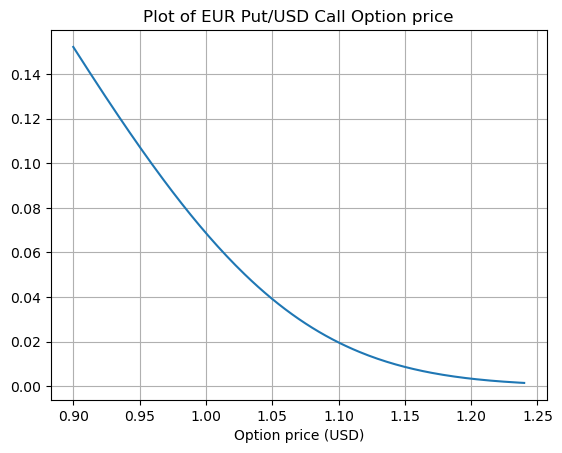
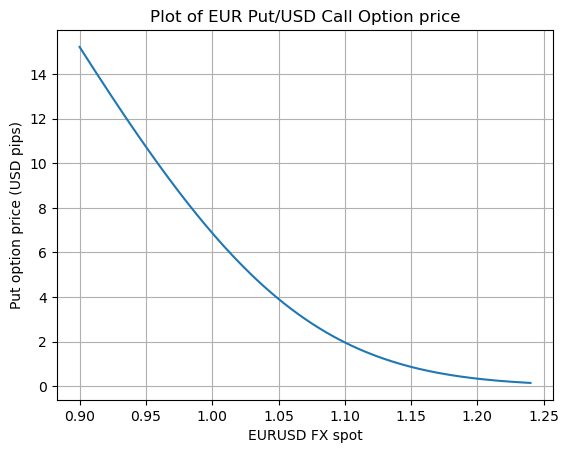
option-greeks

diff --git a/post/2023/11/19/exploring-option-greeks/index.html b/post/2023/11/19/exploring-option-greeks/index.html
@@ -80,8 +80,7 @@
 <p>$$Bl(S_0,K,T,r_{DOM},r_{FOR},\sigma_{\text{imp}}) = V_{\text{market}}$$</p>
 <p>This value $\sigma_{\text{imp}}$ implied from the market price of the option is called the <strong>implied volatility</strong>.</p>
 <p>Thus, although the BS model suffers from flaws, it is mainly used as a quote converter. In the FX options market, option prices are quoted in terms of implied volatilities. The BS formula is used to convert implied vols $\sigma_{\text{imp}}$ to prices and vice versa. The delta hedge to be exchanged between counterparties is calculated according to the BS formula, and this is also true for the Vega hedge of various exotic options. In many cases, the model is also used to run trading books.</p>
-<p>Market conventions used in the FX markets are usually specified in terms of the price and vol attributes of options with various delta characteristics. So, it&rsquo;s nice to explore the intricacies of various types of FX delta and how they are used in the description of market volatility surfaces. The entire concept of the FX volatility smile is based on the parametrization with respect to delta.</p>
-<p>I walk-through the various market conventions used in practice.</p>
+<p>In this note, I explore various delta conventions and derive the greeks. Check out <a href="https://mathfinance.com/wp-content/uploads/2017/06/CPQF_Arbeits20_neu2.pdf">FX Vol smile</a> by Wyestup! The entire concept of the FX volatility smile is based on the parametrization with respect to delta.</p>
 <h2 id="quote-style-conversions">Quote style conversions.</h2>
 <p>In FX markets, options are quoted in one of 4 quote styles - domestic per foreign (d/f), percentage foreign (%f), percentage domestic (%d) and foreign per domestic (f/d).</p>
 <p>The standard Black-Scholes formula is:</p>
@@ -107,6 +106,7 @@ $$</p>
 </span></span><span style="display:flex;"><span>
 </span></span><span style="display:flex;"><span><span style="color:#f92672">import</span> numpy <span style="color:#66d9ef">as</span> np
 </span></span><span style="display:flex;"><span><span style="color:#f92672">from</span> scipy.stats <span style="color:#f92672">import</span> norm
+</span></span><span style="display:flex;"><span><span style="color:#f92672">from</span> enum <span style="color:#f92672">import</span> Enum
 </span></span><span style="display:flex;"><span>
 </span></span><span style="display:flex;"><span><span style="color:#75715e"># An FX option is the right to exchange 1 unit notional of the </span>
 </span></span><span style="display:flex;"><span><span style="color:#75715e"># foreign currency for K units of the domestic currency at time T. </span>
@@ -141,18 +141,42 @@ $$</p>
 </span></span><span style="display:flex;"><span>    pv <span style="color:#f92672">=</span> domesticDF <span style="color:#f92672">*</span> undiscountedPrice <span style="color:#f92672">*</span> CCY1Notional
 </span></span><span style="display:flex;"><span>    <span style="color:#66d9ef">return</span> pv
 </span></span></code></pre></div><h4 id="computing-the-atm-forward-and-the-option-price">Computing the ATM-Forward and the option price</h4>
-<div class="highlight"><pre tabindex="0" style="color:#f8f8f2;background-color:#272822;-moz-tab-size:4;-o-tab-size:4;tab-size:4;"><code class="language-python" data-lang="python"><span style="display:flex;"><span>S_t<span style="color:#f92672">=</span><span style="color:#ae81ff">1.0549</span> ; K<span style="color:#f92672">=</span><span style="color:#ae81ff">1.0710</span> ; t<span style="color:#f92672">=</span><span style="color:#ae81ff">0.0</span> ;T<span style="color:#f92672">=</span><span style="color:#ae81ff">1.0</span> ; r_DOM<span style="color:#f92672">=</span><span style="color:#ae81ff">0.041039868</span> ; r_FOR<span style="color:#f92672">=</span> <span style="color:#ae81ff">0.025860353</span>; sigma<span style="color:#f92672">=</span><span style="color:#ae81ff">0.08971</span> ; CCY1Notional<span style="color:#f92672">=</span><span style="color:#ae81ff">100.00</span>
+<div class="highlight"><pre tabindex="0" style="color:#f8f8f2;background-color:#272822;-moz-tab-size:4;-o-tab-size:4;tab-size:4;"><code class="language-python" data-lang="python"><span style="display:flex;"><span>S_t<span style="color:#f92672">=</span><span style="color:#ae81ff">1.0549</span> ; K<span style="color:#f92672">=</span><span style="color:#ae81ff">1.0710350214586397</span> ; t<span style="color:#f92672">=</span><span style="color:#ae81ff">0.0</span> ;T<span style="color:#f92672">=</span><span style="color:#ae81ff">1.0</span> ; 
+</span></span><span style="display:flex;"><span>r_DOM<span style="color:#f92672">=</span><span style="color:#ae81ff">0.041039868</span> ; r_FOR<span style="color:#f92672">=</span> <span style="color:#ae81ff">0.025860353</span>; sigma<span style="color:#f92672">=</span><span style="color:#ae81ff">0.08971</span> ; CCY1Notional<span style="color:#f92672">=</span><span style="color:#ae81ff">100.00</span>
 </span></span><span style="display:flex;"><span>
-</span></span><span style="display:flex;"><span>ATMForward <span style="color:#f92672">=</span> atTheMoneyForward(S_t,K,t,T,r_DOM,r_FOR,sigma)
+</span></span><span style="display:flex;"><span>forward <span style="color:#f92672">=</span> atTheMoneyForward(S_t,K,t,T,r_DOM,r_FOR,sigma)
 </span></span><span style="display:flex;"><span>
 </span></span><span style="display:flex;"><span>call_price <span style="color:#f92672">=</span> PV(S_t,K,t,T,r_DOM,r_FOR,sigma, CCY1Notional,callPut <span style="color:#f92672">=</span> CallPut<span style="color:#f92672">.</span>CALL_OPTION)
 </span></span><span style="display:flex;"><span>put_price <span style="color:#f92672">=</span> PV(S_t,K,t,T,r_DOM,r_FOR,sigma, CCY1Notional,callPut <span style="color:#f92672">=</span> CallPut<span style="color:#f92672">.</span>PUT_OPTION)
-</span></span></code></pre></div><div class="highlight"><pre tabindex="0" style="color:#f8f8f2;background-color:#272822;-moz-tab-size:4;-o-tab-size:4;tab-size:4;"><code class="language-python" data-lang="python"><span style="display:flex;"><span>print(<span style="color:#e6db74">f</span><span style="color:#e6db74">&#34;At the money forward = </span><span style="color:#e6db74">{</span>ATMForward<span style="color:#e6db74">}</span><span style="color:#e6db74"> USD&#34;</span>)
-</span></span><span style="display:flex;"><span>print(<span style="color:#e6db74">f</span><span style="color:#e6db74">&#34;Call Price = </span><span style="color:#e6db74">{</span>call_price<span style="color:#e6db74">}</span><span style="color:#e6db74"> USD&#34;</span>)
-</span></span><span style="display:flex;"><span>print(<span style="color:#e6db74">f</span><span style="color:#e6db74">&#34;Put Price = </span><span style="color:#e6db74">{</span>put_price<span style="color:#e6db74">}</span><span style="color:#e6db74"> USD&#34;</span>)
-</span></span></code></pre></div><pre><code>At the money forward = 1.0710350214586397 USD
-Call Price = 3.679399488751329 USD
-Put Price = 3.676038161145839 USD
+</span></span></code></pre></div><div class="highlight"><pre tabindex="0" style="color:#f8f8f2;background-color:#272822;-moz-tab-size:4;-o-tab-size:4;tab-size:4;"><code class="language-python" data-lang="python"><span style="display:flex;"><span>print(<span style="color:#e6db74">f</span><span style="color:#e6db74">&#34;Notional = </span><span style="color:#e6db74">{</span>CCY1Notional<span style="color:#e6db74">}</span><span style="color:#e6db74"> EUR&#34;</span>)
+</span></span><span style="display:flex;"><span>
+</span></span><span style="display:flex;"><span>print(<span style="color:#e6db74">f</span><span style="color:#e6db74">&#34;</span><span style="color:#ae81ff">\n</span><span style="color:#e6db74">At the money forward = </span><span style="color:#e6db74">{</span>forward<span style="color:#e6db74">}</span><span style="color:#e6db74"> USD&#34;</span>)
+</span></span><span style="display:flex;"><span>print(<span style="color:#e6db74">f</span><span style="color:#e6db74">&#34;</span><span style="color:#ae81ff">\n</span><span style="color:#e6db74">Call Price = </span><span style="color:#e6db74">{</span>call_price<span style="color:#e6db74">}</span><span style="color:#e6db74"> USD pips&#34;</span>)
+</span></span><span style="display:flex;"><span>print(<span style="color:#e6db74">f</span><span style="color:#e6db74">&#34;Put Price = </span><span style="color:#e6db74">{</span>put_price<span style="color:#e6db74">}</span><span style="color:#e6db74"> USD pips&#34;</span>)
+</span></span><span style="display:flex;"><span>
+</span></span><span style="display:flex;"><span>print(<span style="color:#e6db74">f</span><span style="color:#e6db74">&#34;</span><span style="color:#ae81ff">\n</span><span style="color:#e6db74">Call price = </span><span style="color:#e6db74">{</span>call_price<span style="color:#f92672">/</span>S_t<span style="color:#e6db74">}</span><span style="color:#e6db74"> % EUR&#34;</span>)
+</span></span><span style="display:flex;"><span>print(<span style="color:#e6db74">f</span><span style="color:#e6db74">&#34;Put price = </span><span style="color:#e6db74">{</span>put_price<span style="color:#f92672">/</span>S_t<span style="color:#e6db74">}</span><span style="color:#e6db74"> % EUR&#34;</span>)
+</span></span><span style="display:flex;"><span>
+</span></span><span style="display:flex;"><span>print(<span style="color:#e6db74">f</span><span style="color:#e6db74">&#34;</span><span style="color:#ae81ff">\n</span><span style="color:#e6db74">Call price = </span><span style="color:#e6db74">{</span>call_price<span style="color:#f92672">/</span>K<span style="color:#e6db74">}</span><span style="color:#e6db74"> % USD&#34;</span>)
+</span></span><span style="display:flex;"><span>print(<span style="color:#e6db74">f</span><span style="color:#e6db74">&#34;Put price = </span><span style="color:#e6db74">{</span>put_price<span style="color:#f92672">/</span>K<span style="color:#e6db74">}</span><span style="color:#e6db74"> % USD&#34;</span>)
+</span></span><span style="display:flex;"><span>
+</span></span><span style="display:flex;"><span>print(<span style="color:#e6db74">f</span><span style="color:#e6db74">&#34;</span><span style="color:#ae81ff">\n</span><span style="color:#e6db74">Call price = </span><span style="color:#e6db74">{</span>call_price<span style="color:#f92672">/</span>(S_t <span style="color:#f92672">*</span> K)<span style="color:#e6db74">}</span><span style="color:#e6db74"> EUR pips&#34;</span>)
+</span></span><span style="display:flex;"><span>print(<span style="color:#e6db74">f</span><span style="color:#e6db74">&#34;Put price = </span><span style="color:#e6db74">{</span>put_price<span style="color:#f92672">/</span>(S_t <span style="color:#f92672">*</span> K)<span style="color:#e6db74">}</span><span style="color:#e6db74"> EUR pips&#34;</span>)
+</span></span></code></pre></div><pre><code>Notional = 100.0 EUR
+
+At the money forward = 1.0710350214586397 USD
+
+Call Price = 3.6777787101031754 USD pips
+Put Price = 3.6777787101031754 USD pips
+
+Call price = 3.4863766329540007 % EUR
+Put price = 3.4863766329540007 % EUR
+
+Call price = 3.4338547633058893 % USD
+Put price = 3.4338547633058893 % USD
+
+Call price = 3.2551471829613132 EUR pips
+Put price = 3.2551471829613132 EUR pips
 </code></pre>
 <h4 id="plotting-the-option-price-against-the-ccy1ccy2-spot">Plotting the option price against the CCY1CCY2 spot</h4>
 <div class="highlight"><pre tabindex="0" style="color:#f8f8f2;background-color:#272822;-moz-tab-size:4;-o-tab-size:4;tab-size:4;"><code class="language-python" data-lang="python"><span style="display:flex;"><span><span style="color:#f92672">import</span> matplotlib.pyplot <span style="color:#66d9ef">as</span> plt
@@ -160,12 +184,12 @@ Put Price = 3.676038161145839 USD
 </span></span><span style="display:flex;"><span>plt<span style="color:#f92672">.</span>grid(<span style="color:#66d9ef">True</span>)
 </span></span><span style="display:flex;"><span>plt<span style="color:#f92672">.</span>title(<span style="color:#e6db74">&#39;Plot of EUR Call/USD Put Option price&#39;</span>)
 </span></span><span style="display:flex;"><span>S_t <span style="color:#f92672">=</span> np<span style="color:#f92672">.</span>linspace(<span style="color:#ae81ff">0.90</span>,<span style="color:#ae81ff">1.24</span>,<span style="color:#ae81ff">201</span>)
-</span></span><span style="display:flex;"><span>CCY1Notional <span style="color:#f92672">=</span> <span style="color:#ae81ff">1.00</span>
+</span></span><span style="display:flex;"><span>CCY1Notional <span style="color:#f92672">=</span> <span style="color:#ae81ff">100.00</span>
 </span></span><span style="display:flex;"><span>
 </span></span><span style="display:flex;"><span>call_price_1y <span style="color:#f92672">=</span> PV(S_t,K,t,<span style="color:#ae81ff">1.0</span>,r_DOM,r_FOR,sigma, CCY1Notional,callPut <span style="color:#f92672">=</span> CallPut<span style="color:#f92672">.</span>CALL_OPTION)
 </span></span><span style="display:flex;"><span>
 </span></span><span style="display:flex;"><span>plt<span style="color:#f92672">.</span>xlabel(<span style="color:#e6db74">r</span><span style="color:#e6db74">&#39;EURUSD FX spot&#39;</span>)
-</span></span><span style="display:flex;"><span>plt<span style="color:#f92672">.</span>xlabel(<span style="color:#e6db74">r</span><span style="color:#e6db74">&#39;Option price (USD)&#39;</span>)
+</span></span><span style="display:flex;"><span>plt<span style="color:#f92672">.</span>xlabel(<span style="color:#e6db74">r</span><span style="color:#e6db74">&#39;Call option price (USD pips)&#39;</span>)
 </span></span><span style="display:flex;"><span>plt<span style="color:#f92672">.</span>plot(S_t,call_price_1y)
 </span></span><span style="display:flex;"><span>
 </span></span><span style="display:flex;"><span>plt<span style="color:#f92672">.</span>show()
@@ -179,12 +203,33 @@ Put Price = 3.676038161145839 USD
 </span></span><span style="display:flex;"><span>
 </span></span><span style="display:flex;"><span>
 </span></span><span style="display:flex;"><span>plt<span style="color:#f92672">.</span>xlabel(<span style="color:#e6db74">r</span><span style="color:#e6db74">&#39;EURUSD FX spot&#39;</span>)
-</span></span><span style="display:flex;"><span>plt<span style="color:#f92672">.</span>xlabel(<span style="color:#e6db74">r</span><span style="color:#e6db74">&#39;Option price (USD)&#39;</span>)
+</span></span><span style="display:flex;"><span>plt<span style="color:#f92672">.</span>ylabel(<span style="color:#e6db74">r</span><span style="color:#e6db74">&#39;Put option price (USD pips)&#39;</span>)
 </span></span><span style="display:flex;"><span>
 </span></span><span style="display:flex;"><span>plt<span style="color:#f92672">.</span>plot(S_t,put_price_1y)
 </span></span><span style="display:flex;"><span>
 </span></span><span style="display:flex;"><span>plt<span style="color:#f92672">.</span>show()
 </span></span></code></pre></div><p><img src="./../../../../exploring-option-greeks02.png" alt="png"></p>
+<h2 id="outright-forward-rate">Outright forward rate.</h2>
+<p>Consider a contract with payoff at time $T$, $V_T = R_T - K$. The value of this claim at time zero is:</p>
+<p>$$
+\begin{align*}
+v_0 &amp;= e^{-r_{DOM}T}\mathbb{E}^{\mathbb{Q}^d}[R_T - K]\\
+&amp;= e^{-r_{DOM}T}(R_0 \mathbb{E}^{\mathbb{Q}^d}[e^{(r_{DOM} - r_{FOR} - (\sigma^2/2))T + \sigma \sqrt{T} Z}] - K)\\
+&amp;= e^{-r_{DOM}T}(R_0 e^{(r_{DOM} - r_{FOR})T} - K)\\
+&amp;= R_0 e^{- r_{FOR}T} - K e^{-r_{DOM}T}
+\end{align*}
+$$</p>
+<p>The forward price(strike) $K=F_{0,T}$ is set such that, the value of the contract at time zero is $0$. So,</p>
+<p>$$
+F_{0,T} = K =R_0 e^{(r_{DOM}-r_{FOR})T}
+$$</p>
+<h2 id="put-call-parity">Put call parity.</h2>
+<p>We know that,</p>
+<p>$$(S_T - K)^{+} - (K - S_T)^{+} = (S_T - K)$$</p>
+<p>By the risk-neutral-pricing formula:</p>
+<p>$$\mathbb{E}^{\mathbb{Q}^d}[e^{-r_{DOM}T}(S_T - K)^{+}|\mathcal{F_t}] - \mathbb{E}^{\mathbb{Q}^d}[e^{-r_{DOM}T}(K - S_T)^{+}|\mathcal{F_t}] = \mathbb{E}^{\mathbb{Q}^d}[e^{-r_{DOM}T}(S_T - K)|\mathcal{F_t}]$$</p>
+<p>Thus,</p>
+<p>$$V_{\text{call}}(t,T) - V_{\text{put}}(t,T) = e^{-r_{FOR}T}S_t - e^{-r_{DOM}T} K = F(t,T)$$</p>
 <p>To derive the deltas, we use the following propositions, which are really easy to prove.</p>
 <p><em><strong>Proposition.</strong></em></p>
 <p>$$\frac{\partial d_{+}}{\partial S_0} = \frac{\partial d_{-}}{\partial S_0} = \frac{1}{\sigma S_0 \sqrt{T}}$$</p>
@@ -257,6 +302,8 @@ $$</p>
 &amp;= -\frac{\sqrt{\tau}}{\sigma}
 \end{align*}
 $$</p>
+<h2 id="delta">Delta</h2>
+<p>The delta of an option is the percentage of the foreign notional one must buy when you have a short position in an FX option. For instance, a delta of 0.35 indicates buying $35%$ of the foreign notional to delta hedge the short position. In FX markets, we distinguish between spot delta for a hedge in the spot market and forward delta for a hedge in the outright forward markets.</p>
 <h3 id="pips-spot-delta">Pips Spot Delta</h3>
 <p>The pips spot delta is simply the derivative of the option price with respect to the spot rate - both expressed in ccy2/ccy1 terms.</p>
 <p>$$\Delta_{S;\text{pips}} = \frac{\partial V_{d;\text{pips}}}{\partial S_0}$$</p>
@@ -277,11 +324,13 @@ $$</p>
 </span></span><span style="display:flex;"><span>    omega <span style="color:#f92672">=</span> callPut<span style="color:#f92672">.</span>value
 </span></span><span style="display:flex;"><span>    d_plus <span style="color:#f92672">=</span> dPlus(S_t,K,t,T,r_DOM,r_FOR,sigma)
 </span></span><span style="display:flex;"><span>    <span style="color:#66d9ef">return</span> omega <span style="color:#f92672">*</span> np<span style="color:#f92672">.</span>exp(<span style="color:#f92672">-</span>r_FOR <span style="color:#f92672">*</span> (T<span style="color:#f92672">-</span>t)) <span style="color:#f92672">*</span> norm<span style="color:#f92672">.</span>cdf(omega <span style="color:#f92672">*</span> d_plus) <span style="color:#f92672">*</span> CCY1Notional
-</span></span></code></pre></div><div class="highlight"><pre tabindex="0" style="color:#f8f8f2;background-color:#272822;-moz-tab-size:4;-o-tab-size:4;tab-size:4;"><code class="language-python" data-lang="python"><span style="display:flex;"><span>S_t<span style="color:#f92672">=</span><span style="color:#ae81ff">1.0549</span> ; CCY1Notional<span style="color:#f92672">=</span><span style="color:#ae81ff">100.00</span>
+</span></span></code></pre></div><div class="highlight"><pre tabindex="0" style="color:#f8f8f2;background-color:#272822;-moz-tab-size:4;-o-tab-size:4;tab-size:4;"><code class="language-python" data-lang="python"><span style="display:flex;"><span>S_t<span style="color:#f92672">=</span><span style="color:#ae81ff">1.0549</span> ; CCY1Notional<span style="color:#f92672">=</span><span style="color:#ae81ff">100.0</span>
 </span></span><span style="display:flex;"><span>
 </span></span><span style="display:flex;"><span>pips_spot_delta <span style="color:#f92672">=</span> analyticDelta(S_t,K,t,T,r_DOM,r_FOR,sigma,CCY1Notional, callPut <span style="color:#f92672">=</span> CallPut<span style="color:#f92672">.</span>CALL_OPTION)
-</span></span><span style="display:flex;"><span>print(<span style="color:#e6db74">f</span><span style="color:#e6db74">&#34;Spot Delta = </span><span style="color:#e6db74">{</span>pips_spot_delta<span style="color:#e6db74">}</span><span style="color:#e6db74"> EUR&#34;</span>)
-</span></span></code></pre></div><pre><code>Spot Delta = 50.48090225276146 EUR
+</span></span><span style="display:flex;"><span>print(<span style="color:#e6db74">f</span><span style="color:#e6db74">&#34;Call option Spot Delta = </span><span style="color:#e6db74">{</span>pips_spot_delta<span style="color:#e6db74">}</span><span style="color:#e6db74"> EUR&#34;</span>)
+</span></span><span style="display:flex;"><span>print(<span style="color:#e6db74">f</span><span style="color:#e6db74">&#34;Spot Delta in percentage = </span><span style="color:#e6db74">{</span>pips_spot_delta<span style="color:#f92672">/</span>CCY1Notional <span style="color:#f92672">*</span> <span style="color:#ae81ff">100</span><span style="color:#e6db74">}</span><span style="color:#e6db74"> percent&#34;</span>)
+</span></span></code></pre></div><pre><code>Call option Spot Delta = 50.466746420569166 EUR
+Spot Delta in percentage = 50.466746420569166 percent
 </code></pre>
 <h4 id="plotting-the-analytic-delta-of-call-options">Plotting the Analytic Delta of call options</h4>
 <div class="highlight"><pre tabindex="0" style="color:#f8f8f2;background-color:#272822;-moz-tab-size:4;-o-tab-size:4;tab-size:4;"><code class="language-python" data-lang="python"><span style="display:flex;"><span>plt<span style="color:#f92672">.</span>close()
@@ -298,27 +347,19 @@ $$</p>
 </span></span><span style="display:flex;"><span>plt<span style="color:#f92672">.</span>legend(loc<span style="color:#f92672">=</span><span style="color:#e6db74">&#34;upper left&#34;</span>)
 </span></span><span style="display:flex;"><span>plt<span style="color:#f92672">.</span>show()
 </span></span></code></pre></div><p><img src="./../../../../exploring-option-greeks03.png" alt="png"></p>
-<h3 id="forward-delta">Forward Delta</h3>
-<p>The interpretation of the foward delta is the number of units of FOR of forward contracts a trader needs to buy to delta hedge a short option position. According to Wystup, if we translate this hedge ratio in calculus, it means that we need to compute (for a call)</p>
+<h3 id="pips-forward-delta">Pips Forward Delta</h3>
+<p>The interpretation of the foward delta is the number of units of FOR of forward contracts a trader needs to buy to delta hedge a short option position.</p>
+<p>It is the ratio of the change in the FV of the option with respect to the change in value of the outright forward.</p>
 <p>$$
-\frac{\partial v_{\text{option}}}{\partial v_{\text{forward}}}
-$$</p>
-<p>The value of a forward contract $v_{\text{forward}}$ for an agreed forward exchange rate $K$ is:</p>
-<p>$$
-\begin{align*}
-v_{\text{forward}} &amp;= e^{-r_{DOM}T}\mathbb{E}^{\mathbb{Q}^d}[R_T - K]\\
-&amp;= e^{-r_{DOM}T}(R_0 \mathbb{E}^{\mathbb{Q}^d}[e^{(r_{DOM} - r_{FOR} - (\sigma^2/2))T + \sigma \sqrt{T} Z}] - K)\\
-&amp;= e^{-r_{DOM}T}(R_0 e^{(r_{DOM} - r_{FOR})T} - K)\\
-&amp;= R_0 e^{- r_{FOR}T} - K e^{-r_{DOM}T}
-\end{align*}
+\Delta_{\text{F;pips}}=e^{r_{DOM}T}\frac{\partial v_{\text{option}}}{\partial F_{0,T}}
 $$</p>
 <p>So, the derivative of the value of the forward contract with respect to the spot is:</p>
-<p>$$\frac{\partial v_{\text{forward}}}{\partial R_0} = e^{-r_{FOR}T}$$</p>
+<p>$$\frac{\partial F_{0,T}}{\partial R_0} = e^{(r_{DOM} - r_{FOR})T}$$</p>
 <p>Using the chain rule and the derivative of the inverse function, we obtain the forward delta:</p>
 <p>$$
 \begin{align*}
-\frac{\partial v_{\text{option}}}{\partial v_{\text{forward}}} &amp;= \frac{\partial v_{\text{option}}}{\partial v_{R_0}} \times \frac{\partial v_{R_0}}{\partial v_{\text{forward}}}\\
-&amp;=\omega e^{-r_{FOR}T}\Phi(\omega d_{+}) \times e^{r_{FOR}T}\\
+e^{r_{DOM}T}\frac{\partial v_{\text{option}}}{\partial F_{0,T}} &amp;= e^{r_{DOM}T}\frac{\partial v_{\text{option}}}{\partial R_0} \times \frac{\partial R_0}{\partial F_{0,T}}\\
+&amp;=e^{r_{DOM}T} \cdot \omega e^{-r_{FOR}T}\Phi(\omega d_{+}) \times e^{(r_{FOR}- r_{DOM})T}\\
 &amp;= \omega \Phi(\omega d_{+})
 \end{align*}
 $$</p>
@@ -329,8 +370,25 @@ $$</p>
 </span></span></code></pre></div><div class="highlight"><pre tabindex="0" style="color:#f8f8f2;background-color:#272822;-moz-tab-size:4;-o-tab-size:4;tab-size:4;"><code class="language-python" data-lang="python"><span style="display:flex;"><span>S_t<span style="color:#f92672">=</span><span style="color:#ae81ff">1.0549</span> ; CCY1Notional<span style="color:#f92672">=</span><span style="color:#ae81ff">100.00</span>
 </span></span><span style="display:flex;"><span>
 </span></span><span style="display:flex;"><span>forward_delta <span style="color:#f92672">=</span> forwardDelta(S_t,K,t,T,r_DOM,r_FOR,sigma,CCY1Notional, callPut <span style="color:#f92672">=</span> CallPut<span style="color:#f92672">.</span>CALL_OPTION)
-</span></span><span style="display:flex;"><span>print(<span style="color:#e6db74">f</span><span style="color:#e6db74">&#34;Forward Delta = </span><span style="color:#e6db74">{</span>forward_delta<span style="color:#e6db74">}</span><span style="color:#e6db74"> EUR of forward contracts&#34;</span>)
-</span></span></code></pre></div><pre><code>Forward Delta = 51.803382405811725 EUR of forward contracts
+</span></span><span style="display:flex;"><span>print(<span style="color:#e6db74">f</span><span style="color:#e6db74">&#34;Forward Delta = </span><span style="color:#e6db74">{</span>forward_delta <span style="color:#e6db74">}</span><span style="color:#e6db74"> EUR of forward contracts&#34;</span>)
+</span></span></code></pre></div><pre><code>Forward Delta = 51.78885572432219 EUR of forward contracts
+</code></pre>
+<h3 id="percentage-spot-premium-adjusted-delta">Percentage Spot (Premium-adjusted) Delta.</h3>
+<p>The percentage spot delta is the ratio of the change in the PV of the option expressed in FOR currency terms - to the change in the spot - expressed in FOR currency terms.</p>
+<p>$$
+\begin{align*}
+\Delta_{S;\%} &amp;= \frac{\partial V_{\% f}}{(\partial S_0)/S_0}\\
+&amp;= S_0 \times \frac{\partial}{\partial S_0}\left(\frac{V_{\text{d;pips}}}{S_0}\right)\\
+&amp;= S_0 \times \frac{S_0 \frac{\partial V_{\text{d;pips}}}{\partial S_0} - V_{\text{d;pips}} \frac{\partial (S_0)}{\partial S_0}}{S_0^2}\\
+&amp;= \frac{(\partial V_{\text{d;pips}}/\partial S_0)S_0 -  V_{\text{d;pips}}}{S_0}\\
+&amp;= \frac{\partial V_{\text{d;pips}}}{\partial S_0} - \frac{V_{\text{d;pips}}}{S_0}\\
+&amp;= \Delta_{\text{S;pips}} - V_{\% f}
+\end{align*}
+$$</p>
+<div class="highlight"><pre tabindex="0" style="color:#f8f8f2;background-color:#272822;-moz-tab-size:4;-o-tab-size:4;tab-size:4;"><code class="language-python" data-lang="python"><span style="display:flex;"><span>premiumAdjustedDelta <span style="color:#f92672">=</span> pips_spot_delta <span style="color:#f92672">-</span> (call_price<span style="color:#f92672">/</span>S_t)
+</span></span><span style="display:flex;"><span>
+</span></span><span style="display:flex;"><span>print(<span style="color:#e6db74">f</span><span style="color:#e6db74">&#34;Premium Adjusted Delta = </span><span style="color:#e6db74">{</span>premiumAdjustedDelta<span style="color:#e6db74">}</span><span style="color:#e6db74"> percent&#34;</span>)
+</span></span></code></pre></div><pre><code>Premium Adjusted Delta = 46.98036978761517 percent
 </code></pre>
 <h2 id="gamma">Gamma.</h2>
 <p>$$
@@ -472,6 +530,50 @@ $$</p>
 &amp;= \omega \left[S_0\right]
 \end{align*}
 $$</p>
+<h2 id="at-the-money-definitions">At-The-Money Definitions</h2>
+<p>The At-the-Money option, as the name suggests, is meant to correspond to, being midway between in-the-money and out-of-the-money. In practice, this is not as obvious:</p>
+<p>ATM-Spot :</p>
+<p>$$K = S_0$$</p>
+<p>ATM Forward :</p>
+<p>$$K = F_{0,T}$$</p>
+<p>ATM value neutral straddle :</p>
+<p>$$K \text{ such that call value = put value}$$</p>
+<p>ATM delta neutral straddle :</p>
+<p>$$K \text{ such that call delta = -put delta}$$</p>
+<p>Since $V_{call} = V_{put}$, when $K = F_{0,T}$, <strong>ATM-value neutral</strong> is equivalent to <strong>ATMF</strong>.</p>
+<h3 id="at-the-money-dnsdelta-neutral-strike">At-the-money DNS(Delta-neutral-strike)</h3>
+<p>A more natural way to define an ATM strike is the strike $K_{ATM}$ for which it possible to buy a straddle (long call + long put with strike $K_{ATM}$) that  correponds to a pure long vega position with no net delta. This is called the <strong>Delta-Neutral-Straddle</strong> (DNS) and has the advantage that such a trade can be effected without and spot or forward hedge being needed.</p>
+<p>The <strong>Delta-Neutral-Straddle</strong> is defined by $K_{ATM} = K_{DNS}$ where $K_{DNS}$ is chosen such that:</p>
+<p>$$ \Delta_{Q}(\text{Call Option}) + \Delta_{Q}(\text{Put Option}) = 0$$</p>
+<p>or equivalently,</p>
+<p>$$ \Delta_{Q}(\omega=+1,K_{DNS},T,\sigma_{ATM}) + \Delta_{Q}(\omega=-1,K_{DNS},T,\sigma_{ATM}) = 0$$</p>
+<p>where $Q$ is the quote convention for the option delta. Now, the deltas can be quoted as spot delta, forward delta, percentage spot delta or percentage forward delta.</p>
+<p>Let&rsquo;s actually solve $K_{DNS}$ analytically in the simplest case of spot and foward delta.</p>
+<p>We attempt to solve:</p>
+<p>$$
+(+1)\Phi\left(+\frac{\log(F/K) + (\sigma_{ATM}^2/2)T}{\sigma\sqrt{T}}\right) + (-1)\Phi\left(-\frac{\log(F/K) + (\sigma_{ATM}^2/2)T}{\sigma\sqrt{T}}\right)=0
+$$</p>
+<p>$$
+\Phi\left(+\frac{\log(F/K) + (\sigma_{ATM}^2/2)T}{\sigma\sqrt{T}}\right) =\Phi\left(-\frac{\log(F/K) + (\sigma_{ATM}^2/2)T}{\sigma\sqrt{T}}\right)
+$$</p>
+<p>Since $\ln(\cdot)$ is monotonic, it follows that:</p>
+<p>$$
+\begin{align*}
+2\log(F/K) + 2(\sigma_{ATM}^2/2)T &amp;= 0\\
+\log(F/K) &amp;= - (\sigma_{ATM}^2/2)T \\
+\log(K/F) &amp;= (\sigma_{ATM}^2/2)T\\
+K_{DNS} &amp;= F_{0,T} e^{\frac{\sigma_{\text{ATM}}^2}{2}T}
+\end{align*}
+$$</p>
+<div class="highlight"><pre tabindex="0" style="color:#f8f8f2;background-color:#272822;-moz-tab-size:4;-o-tab-size:4;tab-size:4;"><code class="language-python" data-lang="python"><span style="display:flex;"><span>K_DNS <span style="color:#f92672">=</span> forward <span style="color:#f92672">*</span> np<span style="color:#f92672">.</span>exp(((sigma<span style="color:#f92672">**</span><span style="color:#ae81ff">2</span>)<span style="color:#f92672">/</span><span style="color:#ae81ff">2</span>)<span style="color:#f92672">*</span>T)
+</span></span><span style="display:flex;"><span>
+</span></span><span style="display:flex;"><span>print(<span style="color:#e6db74">f</span><span style="color:#e6db74">&#34;ATM delta-neutral Strike = </span><span style="color:#e6db74">{</span>K_DNS<span style="color:#e6db74">}</span><span style="color:#e6db74">&#34;</span>)
+</span></span></code></pre></div><pre><code>ATM delta-neutral Strike = 1.0753534871192036
+</code></pre>
+<h2 id="market-strangles">Market Strangles</h2>
+<p>Suppose that we neglect the effect of volatility skew and presume that volatility, while non-constant across various strikes, is basically symmetric. The concept of the market strangle is that we buy an out-of-the-money put and an out-of-the-money call with strikes placed a similar distance away from the at-the-money strike in moneyness terms. For clarity, let&rsquo;s suppose, we are talking about the 25-delta market strangle, though the market strangle for any delta is pretty similar.</p>
+<p>The idea here is that, without needing to know the actual volatility smile, we can estimate the volatility that is needed to price a market strangle instrument consistently with the market, by taking the at-the-money volatility and adding a strangle premium $\sigma_{25-d-ms}$ to it. The premium thus added, in volatility terms, is called the market strangle.</p>
+<p>The important point to make is that the strikes for calls and puts are both calculated subject to the Black-Scholes model with constant volatility of $\sigma_{ATM} + \sigma_{25-d-ms}$; these strikes are known as market strangle strikes $K_{25-d-c-ms}$ and $K_{25-d-p-ms}$. With that, we obtain strikes for calls and puts that have deltas of $+0.25$ and $-0.25$ respectively.</p>
 <div class="highlight"><pre tabindex="0" style="color:#f8f8f2;background-color:#272822;-moz-tab-size:4;-o-tab-size:4;tab-size:4;"><code class="language-python" data-lang="python"></code></pre></div>
 </article>
 
